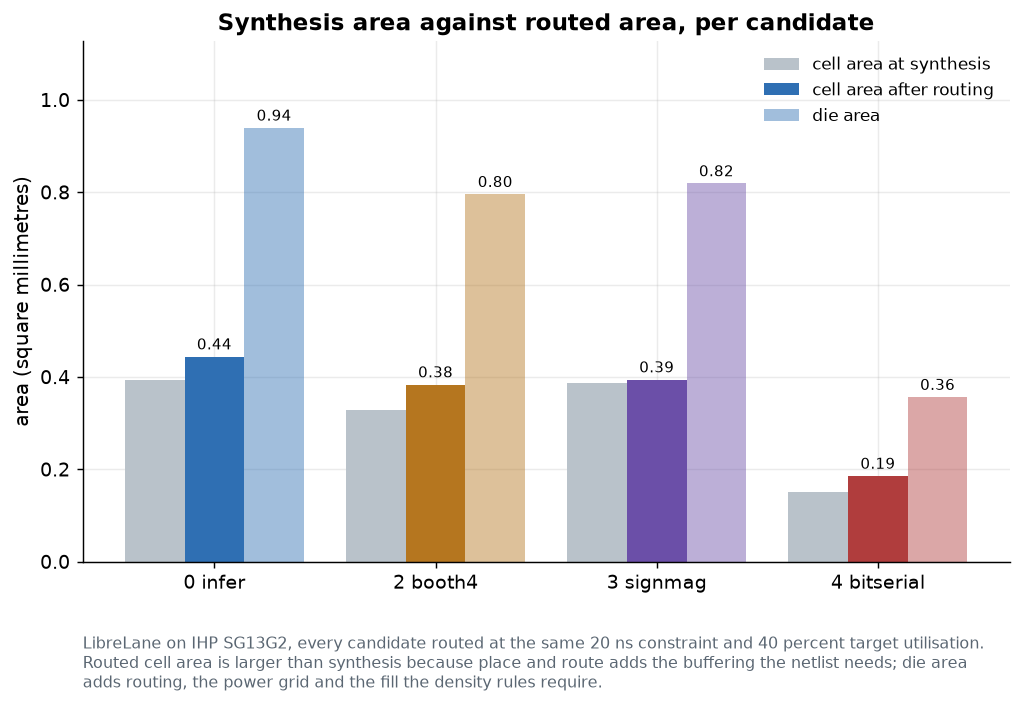
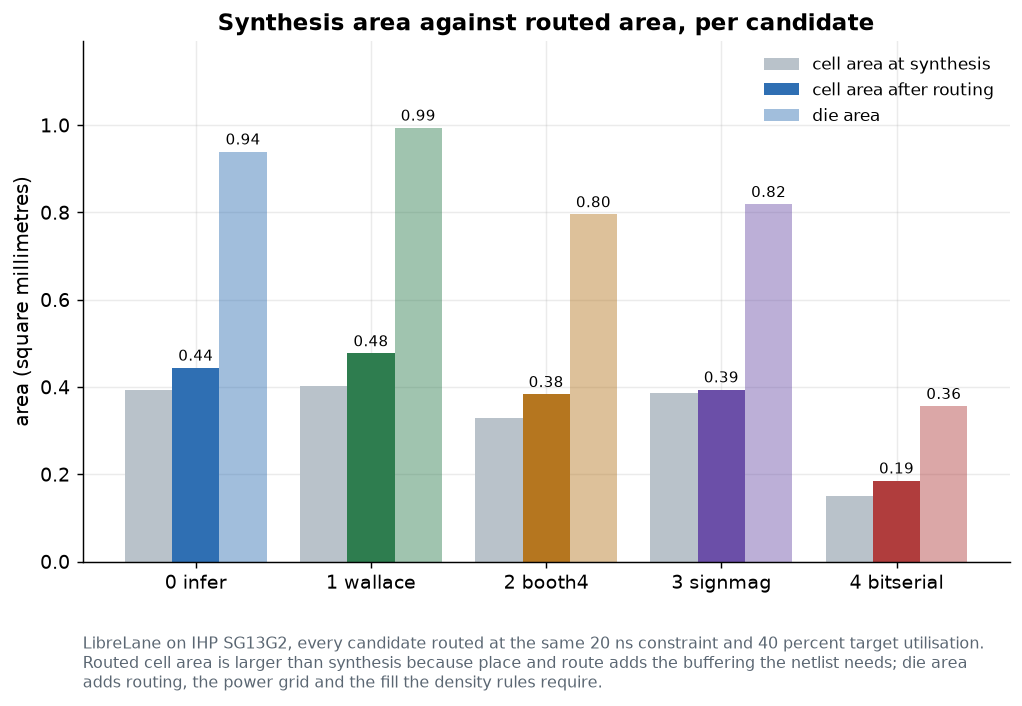
feat: all five candidates routed, and the controlled sign-magnitude result
engine_wallace finished place and route, completing the set. All five candidates are
clean on Magic DRC, KLayout DRC, LVS and routing DRC, with positive hold slack at
every corner, and all five carry power measured on their own routed netlist at 100
percent annotation coverage after that netlist was checked against the reference
model.

The controlled comparison the chip was built for now runs on real geometry.
engine_signmag and engine_wallace share a reduction tree and a final adder, so the
gap between them is the operand encoding: sign-magnitude is 17.4 percent smaller in
routed cell area, 10.1 percent cheaper in energy per tile, and 11.2 percent slower.
The encoding is a genuine area and energy win, paid for in frequency, and worth
nothing like the 29 percent a transition count claimed. engine_booth4 beats it on all
three axes anyway.

Routing also settles the Wallace question. The hand-written 3:2 tree is 5.8 percent
larger, 7.2 percent more energy and 4.2 percent slower than the candidate written
with a plain multiply, so it is dominated on every axis by the synthesiser's own
mapping. Synthesis area alone had put the gap at 4 percent and could not speak to
frequency at all.

The switching-activity proxy ranks the candidates perfectly against synthesis energy
and imperfectly against routed energy: correlation falls from 1.00 to 0.90, and the
one inversion swaps engine_booth4 and engine_signmag, which are the two candidates on
[…]

diff --git a/README.md b/README.md
@@ -99,36 +99,38 @@ routing.
 | Candidate | Routed cell area | Die area | Post-route Fmax | Power | Energy/tile | Cycles |
 |---|---|---|---|---|---|---|
 | `engine_infer` | 443,933 um2 | 0.939 mm2 | 81.4 MHz | 8.73 mW | 446 pJ | 3,904 |
-| `engine_wallace` | still routing | still routing | still routing | still routing | still routing | 3,904 |
+| `engine_wallace` | 476,959 um2 | 0.994 mm2 | 77.9 MHz | 9.35 mW | 477 pJ | 3,904 |
 | `engine_booth4` | **383,415 um2** | **0.796 mm2** | **83.0 MHz** | **8.21 mW** | **419 pJ** | 3,904 |
 | `engine_signmag` | 394,146 um2 | 0.819 mm2 | 69.2 MHz | 8.41 mW | 429 pJ | 3,904 |
 | `engine_bitserial` | 185,463 um2 | 0.356 mm2 | 77.3 MHz | 6.51 mW | 1,245 pJ | 7,488 |
 
-Every routed candidate is clean: 0 Magic DRC errors, 0 KLayout DRC errors, 0 LVS errors
-and 0 routing DRC violations, with positive hold slack at every corner. A handful of
-antenna violations survive (1 on bit-serial, 9 on infer, 21 on Booth), and they are
-reported rather than swept up. `engine_wallace` is still in place and route as this is
-written; its row appears when its flow finishes, and nothing is estimated in the
-meantime.
+All five candidates routed. Every one is clean: 0 Magic DRC errors, 0 KLayout DRC errors,
+0 LVS errors and 0 routing DRC violations, with positive hold slack at every corner. A
+handful of antenna violations survive, and they are reported rather than swept up. Power
+is measured on each candidate's own routed netlist at 100 percent annotation coverage,
+and each of those netlists was checked against the reference model before its power was
+counted.
 
-**Booth recoding wins the routed comparison outright.** Among the four single-cycle
-candidates it is simultaneously the smallest die, the fastest at signoff and the lowest
-energy per tile. That is unusual: area, speed and energy normally trade against each
-other, and halving the partial product count improves all three at once.
+**Booth recoding wins outright.** Among the four single-cycle candidates it is
+simultaneously the smallest die, the fastest at signoff and the lowest energy per tile.
+That is unusual: area, speed and energy normally trade against one another, and halving
+the partial product count improves all three at once. Against `engine_wallace` it is 20
+percent smaller, 12 percent cheaper in energy and 6.5 percent faster.
 
-**Sign-magnitude does not come out ahead once the design is routed.** `engine_signmag`
-costs 2.4 percent more energy per tile than Booth and is 17 percent slower at signoff,
-69.2 MHz against 83.0 MHz. The encoding's extra logic depth shows up as frequency, which
-a synthesis-stage power sweep cannot see. The controlled comparison against
-`engine_wallace`, which shares its reduction tree, is the one that isolates the encoding,
-and it needs the Wallace route to finish.
+**The hand-written Wallace tree is dominated on every axis.** Post-route it is 5.8
+percent larger than the inferred baseline, uses 7.2 percent more energy, and is 4.2
+percent slower. At synthesis it looked only 4 percent larger and the frequency question
+was unanswerable. Routing settles it: ABC's own multiplier mapping beats an explicit 3:2
+carry-save tree handed to it, and `engine_wallace` is the one candidate here not worth
+building.
 
 `engine_bitserial` draws the lowest power of anything here, 6.51 mW, and that is exactly
 the trap described [below](#does-the-cheap-proxy-predict-real-power): it spends 7,488
-cycles to everyone else's 3,904, so it uses **three times the energy** for the same
-work. Its die is 2.2 times smaller, which is the reason to build it.
+cycles to everyone else's 3,904, so it uses **2.6 times the energy** of the Wallace tree
+for the same work while drawing less power. Its die is 2.2 times smaller than the next
+smallest, which is the reason to build it.
 
-Synthesis cell area to routed cell area grows by 13 to 24 percent for three of the four,
+Synthesis cell area grows into routed cell area by 13 to 24 percent for most candidates,
 and by only 1.7 percent for `engine_signmag`. The die is then roughly twice the routed
 cell area again at 40 percent target utilisation. Compounding those, a die is 2.1 to 2.4
 times the synthesis cell area, which is why synthesis area should never be quoted as a
@@ -140,12 +142,10 @@ die size.
 | Candidate | Instances | Utilisation | Wirelength | Synthesis to routed cell growth | Antenna |
 |---|---|---|---|---|---|
 | `engine_infer` | 90,326 | 49.6% | 1,284 mm | +13.1% | 9 |
+| `engine_wallace` | 95,771 | 50.1% | 1,453 mm | +17.2% | 20 |
 | `engine_booth4` | 75,990 | 50.6% | 1,120 mm | +16.8% | 21 |
 | `engine_signmag` | 78,552 | 50.6% | 1,396 mm | +1.7% | 2 |
 | `engine_bitserial` | 30,628 | 56.1% | 414 mm | +23.7% | 1 |
-
-`engine_signmag` routes the most wire of any candidate despite not being the largest,
-which is the operand conversion fanning out across the array.
 
 </details>
 
@@ -185,17 +185,19 @@ the easiest way to overstate a result:
 
 ### What the same function looks like in silicon
 
-Functionally equivalent engines, the same flow, the same 20 ns constraint, rendered at
-one scale so the size difference is a difference on the page rather than a number in a
-table. `engine_wallace` joins them when its route finishes.
+Five functionally equivalent engines, the same flow, the same 20 ns constraint, rendered
+at one scale so the size difference is a difference on the page rather than a number in a
+table.
 
 ![Layout contact sheet](docs/img/layout_contact_sheet.png)
 
 The bit-serial engine is the obvious one: a third of the die of anything else, because it
-has no multiplier array at all. Less obvious is `engine_signmag`, whose placed core is
-visibly rounder and less uniform at its edges than Booth's rectangular mat. That is the
-operand conversion logic, which does not tile as regularly as a reduction tree and is the
-same logic that makes it route the most wire of any candidate.
+has no multiplier array at all. Less obvious is the difference in core shape.
+`engine_booth4` places as a clean rectangular mat. `engine_wallace` and `engine_signmag`
+both have visibly ragged, rounded core edges, and both route substantially more wire than
+Booth does at a comparable size. A carry-save tree and an operand converter do not tile
+as regularly as Booth's recoded partial products, and that shows up as placement the tool
+could not square off.
 
 The zoom sheet takes the same physical window of silicon from each candidate at the same
 magnification, which is where the microarchitecture is actually visible rather than just
@@ -291,7 +293,7 @@ design's. This table is here so they cannot be confused.
 | Candidate | Netlist worst path | Limited by | Datapath path | Routed Fmax (slow) | Routed Fmax (typical) |
 |---|---|---|---|---|---|
 | `engine_infer` | 30.38 ns | `acc_clear_i` | 10.06 ns | 81.4 MHz | 120.7 MHz |
-| `engine_wallace` | 30.38 ns | `acc_clear_i` | 10.46 ns | still routing | still routing |
+| `engine_wallace` | 30.38 ns | `acc_clear_i` | 10.46 ns | 77.9 MHz | 116.3 MHz |
 | `engine_booth4` | 30.39 ns | `acc_clear_i` | 11.85 ns | 83.0 MHz | 123.6 MHz |
 | `engine_signmag` | 30.39 ns | `acc_clear_i` | 12.08 ns | 69.2 MHz | 104.2 MHz |
 | `engine_bitserial` | 66.24 ns | `_25522_` | 12.24 ns | 77.3 MHz | 120.6 MHz |
@@ -368,21 +370,39 @@ that straddle zero, and a loss for a post-ReLU unsigned activation stream. Post-
 unsigned activations are extremely common in exactly the inference workloads an INT8
 accelerator is built for.
 
-**And routing charges it again, in frequency.** Everything above is measured on the
-synthesis netlist, where the comparison against `engine_wallace` is properly controlled.
-After place and route `engine_signmag` closes at 69.2 MHz against 83.0 MHz for
-`engine_booth4`, and uses slightly more energy per tile, 429 pJ against 419 pJ. The
-conversion logic adds depth that a power sweep at fixed frequency cannot charge it for,
-and it routes the most wire of any candidate. A 13 percent power saving bought with a 17
-percent frequency loss is not a saving at constant throughput.
+#### What routing does to the result
 
-The honest summary: sign-magnitude encoding is worth about 13 percent of total power on
-signed data at a fixed clock, nothing like the 29 percent a transition count suggests, it
-is a net loss on unsigned data, and after routing it is slower and no cheaper in energy
-than plain Booth recoding. Whether to use it is a question about your operand statistics
-and your timing slack, not a question with one answer. None of that distinction survives
-a single-number benchmark, which is why the sweep exists and why the sweep is not the
-last word either.
+Everything above is measured on the synthesis netlist. Both engines have since been
+placed and routed at the identical constraint, which lets the same controlled comparison
+run on real silicon geometry:
+
+| `engine_signmag` against `engine_wallace`, post-route | |
+|---|---|
+| Routed cell area | **-17.4%** |
+| Die area | **-17.6%** |
+| Energy per tile | **-10.1%** |
+| Average power | **-10.1%** |
+| Maximum frequency | **-11.2%** (69.2 MHz against 77.9 MHz) |
+
+**The encoding survives routing as a real win on area and energy, and it is paid for in
+frequency.** Sign-magnitude is a sixth smaller and a tenth cheaper in energy than the
+identical datapath in two's complement, which is a better area result than the activity
+study predicted and a worse power result. What the synthesis sweep could not see at all
+is the frequency: the conversion logic adds depth, and `engine_signmag` closes 11 percent
+slower. At constant throughput that eats the power saving.
+
+It also does not make the candidate competitive. `engine_booth4` beats it on all three
+axes at once, being 2.8 percent smaller, 2.4 percent cheaper in energy and 20 percent
+faster. Sign-magnitude beats the tree it was built to be compared against, and loses to
+a better tree.
+
+The honest summary: sign-magnitude encoding is worth about 10 percent of energy and 17
+percent of area against an identical two's complement datapath, costs 11 percent of
+frequency, is worth nothing like the 29 percent a transition count suggests, and is a net
+power loss on unsigned data. Against the best candidate on this chip it is simply beaten.
+Whether to use it is a question about your operand statistics and your timing slack, not
+a question with one answer, and none of that distinction survives a single-number
+benchmark.
 
 ![Activity against operand sign mix](docs/img/activity_vs_signs.png)
 
@@ -410,39 +430,46 @@ checking directly rather than assuming.
 
 ![Proxy against measured power](docs/img/power_proxy_vs_real.png)
 
-**For ranking candidates by energy per tile, the proxy is excellent.** Across all five
-candidates the rank correlation between transitions per tile and measured energy per tile
-is exactly 1.00, and the linear correlation is 0.99. Every candidate lands in the right
-order. If the question is "which of these should I build", the free measurement answers
-it.
+**Against the synthesis netlist the proxy ranks perfectly.** Rank correlation 1.00 across
+all five candidates, linear correlation 0.99. That is the result an activity-only study
+would report, and it is encouraging.
 
-**For predicting how much better, the proxy is poor, and it errs in both directions.**
+**Against the routed netlist it does not.** Rank correlation falls to 0.90, and the
+single inversion is the one that matters: the proxy puts `engine_signmag` cheaper than
+`engine_booth4`, and after routing Booth is cheaper. Those are the two candidates on the
+Pareto frontier, so the proxy gets the ordering wrong at precisely the comparison a
+designer would be using it to make.
+
 Relative to `engine_wallace`:
 
-| Candidate | Proxy says | Measured energy says | Proxy error |
+| Candidate | Proxy says | Routed energy says | Proxy error |
 |---|---|---|---|
-| `engine_infer` | 0.91x | 0.97x | overstates the saving |
-| `engine_booth4` | 0.87x | 0.94x | overstates the saving |
-| `engine_signmag` | 0.83x | 0.92x | overstates the saving by about 2x |
-| `engine_bitserial` | 1.75x | 3.17x | understates the cost by about 1.8x |
+| `engine_infer` | 0.91x | 0.93x | close |
+| `engine_booth4` | 0.87x | 0.88x | close |
+| `engine_signmag` | 0.83x | 0.90x | overstates the saving by about 1.7x |
+| `engine_bitserial` | 1.75x | 2.61x | understates the cost by about 1.5x |
 
-The two failure modes have the same root cause. The proxy weights every net equally and
-sees no cell internals, so it misses the internal power that dominates in a
-register-heavy design and it cannot see that a wide flat tree and a narrow deep one drive
-very different capacitances. For the encodings it therefore flatters the quiet candidate;
-for the bit-serial candidate, which spends eight cycles and a great deal of sequential
-activity per tile, it badly understates the cost.
+The failure modes have one root cause. The proxy weights every net equally and sees no
+cell internals, so it misses the internal power that dominates in a register-heavy design
+and cannot tell that a wide flat tree and a narrow deep one drive very different
+capacitances. It flatters `engine_signmag`, whose saving is concentrated in operand wires
+it counts generously and whose conversion logic routes the most wire on the chip. It
+badly understates `engine_bitserial`, which spends eight cycles of sequential activity
+per tile.
 
-**And for average power the proxy is worthless.** Its rank correlation with average power
-across the five candidates is 0.00. That is not a defect in the proxy so much as a
-warning about the question: `engine_bitserial` spreads the same work over eight cycles,
-so it draws the *lowest* average power of any candidate while consuming over three times
-the energy per tile. Average power rewards being slow. Energy per tile is the comparison
-that means something, and it is the one this repository quotes.
+**And for average power the proxy is worthless.** Its rank correlation with post-route
+average power across the five candidates is -0.10, which is no relationship at all. That
+is less a defect in the proxy than a warning about the question: `engine_bitserial`
+spreads the same work over eight cycles, so it draws the *lowest* average power of any
+candidate while consuming 2.6 times the energy per tile. Average power rewards being
+slow. Energy per tile is the comparison that means something, and it is the one this
+repository quotes.
 
-The practical guidance, for anyone who cannot run place and route: use the transition
-count to rank designs of similar structure, do not quote its percentages, and never use
-it to compare designs with different cycle counts.
+The practical guidance, for anyone who cannot run place and route: a transition count is
+a good screen and a bad decision. Use it to throw out candidates that are obviously
+expensive, never quote its percentages, never use it to compare designs with different
+cycle counts, and do not trust it to separate two candidates that are close, because that
+is exactly where it was wrong here.
 
 ### The Pareto view
 
@@ -451,11 +478,12 @@ it to compare designs with different cycle counts.
 Both axes are physical and both are post-route: routed die area against energy per tile
 launch measured on the routed netlist. Energy rather than power, for the reason above.
 
-Reading it: `engine_booth4` and `engine_bitserial` are the two candidates on the
-frontier. Booth is the best single-cycle design on every axis, and bit-serial buys a
-2.2x smaller die for 3x the energy and 1.92x the cycles, which is the right trade only
-when area is the binding constraint. `engine_infer` and `engine_signmag` are both
-dominated by Booth: bigger, slower and no cheaper.
+Reading it: `engine_booth4` and `engine_bitserial` are the only two candidates on the
+frontier. Booth is the best single-cycle design on every axis at once. Bit-serial buys a
+2.2x smaller die for 2.6x the energy and 1.92x the cycles, which is the right trade only
+when area is the binding constraint. The other three are all dominated by Booth: bigger,
+slower and no cheaper. `engine_wallace` is dominated by every other single-cycle
+candidate including the one that was written with `*`.
 
 ### Whole chip
 
@@ -727,16 +755,16 @@ worse than no benchmark at all.
 - **`power__total` in `results/pnr/summary.json` is not measured power.** It is
   OpenROAD's estimate at its default switching activity, roughly five times the annotated
   figure. The measured number is in `results/pnr/routed_power.json`.
-- **The sign-magnitude result is a qualified one.** At a fixed clock it is a 13.5 percent
-  total-power win on all-negative operands, a 4.2 percent loss on all-positive ones, and
-  roughly half what a transition-count study would have claimed. After routing the
-  candidate is also 17 percent slower than Booth and no cheaper in energy.
+- **The sign-magnitude result is a qualified one.** Against the identical two's
+  complement datapath it is worth 17 percent of area and 10 percent of energy after
+  routing, and costs 11 percent of frequency. At a fixed clock on the synthesis netlist
+  it is a 13.5 percent power win on all-negative operands and a 4.2 percent loss on
+  all-positive ones. It is beaten outright by `engine_booth4`.
 - **Place and route is not bit-reproducible.** The same candidate routed twice from the
   identical configuration gave Fmax figures 15 percent apart. Area was stable to 0.04
   percent. Small frequency differences between candidates are not significant.
-- **`engine_wallace` has not finished routing.** Its row is marked as such rather than
-  filled with a synthesis estimate, and the controlled post-route comparison against
-  `engine_signmag` is therefore not yet available.
+- **The switching-activity proxy ranks the two frontier candidates the wrong way round**
+  once their real routed energy is measured. It is a screen, not a decision procedure.
 
 ## Licence
 

diff --git a/results/README.md b/results/README.md
@@ -33,18 +33,18 @@ pending. This is the map.
 
 | Scope | Generic synth | SG13G2 synth | PDK timing and power | Place and route | Routed power |
 |---|---|---|---|---|---|
-| `engine_infer` | yes | yes | yes | running | no |
-| `engine_wallace` | yes | yes | yes | running | no |
-| `engine_booth4` | yes | yes | yes | running | no |
-| `engine_signmag` | yes | yes | yes | running | no |
+| `engine_infer` | yes | yes | yes | yes | yes |
+| `engine_wallace` | yes | yes | yes | yes | yes |
+| `engine_booth4` | yes | yes | yes | yes | yes |
+| `engine_signmag` | yes | yes | yes | yes | yes |
 | `engine_bitserial` | yes | yes | yes | yes | yes |
 | `engine_array` | yes | no | no | no | no |
 | `bench_core` | yes | no | no | no | no |
 | `gemm_bench_chip` | yes | no | no | no | no |
 
-"running" means the LibreLane flow for that candidate is in progress at the same
-constraint as `engine_bitserial` and its row lands in `summary.json` when it finishes.
-No number appears in this repository before its flow has run.
+All five candidates are routed at the identical constraint and all five carry a power
+number measured on their own routed netlist. No number appears in this repository before
+its flow has run.
 
 The three integration scopes stop at generic synthesis for one reason: this build binds
 no SRAM macros, so `memory_map` turns 74 kbit of matrix store into flip-flops. Their
